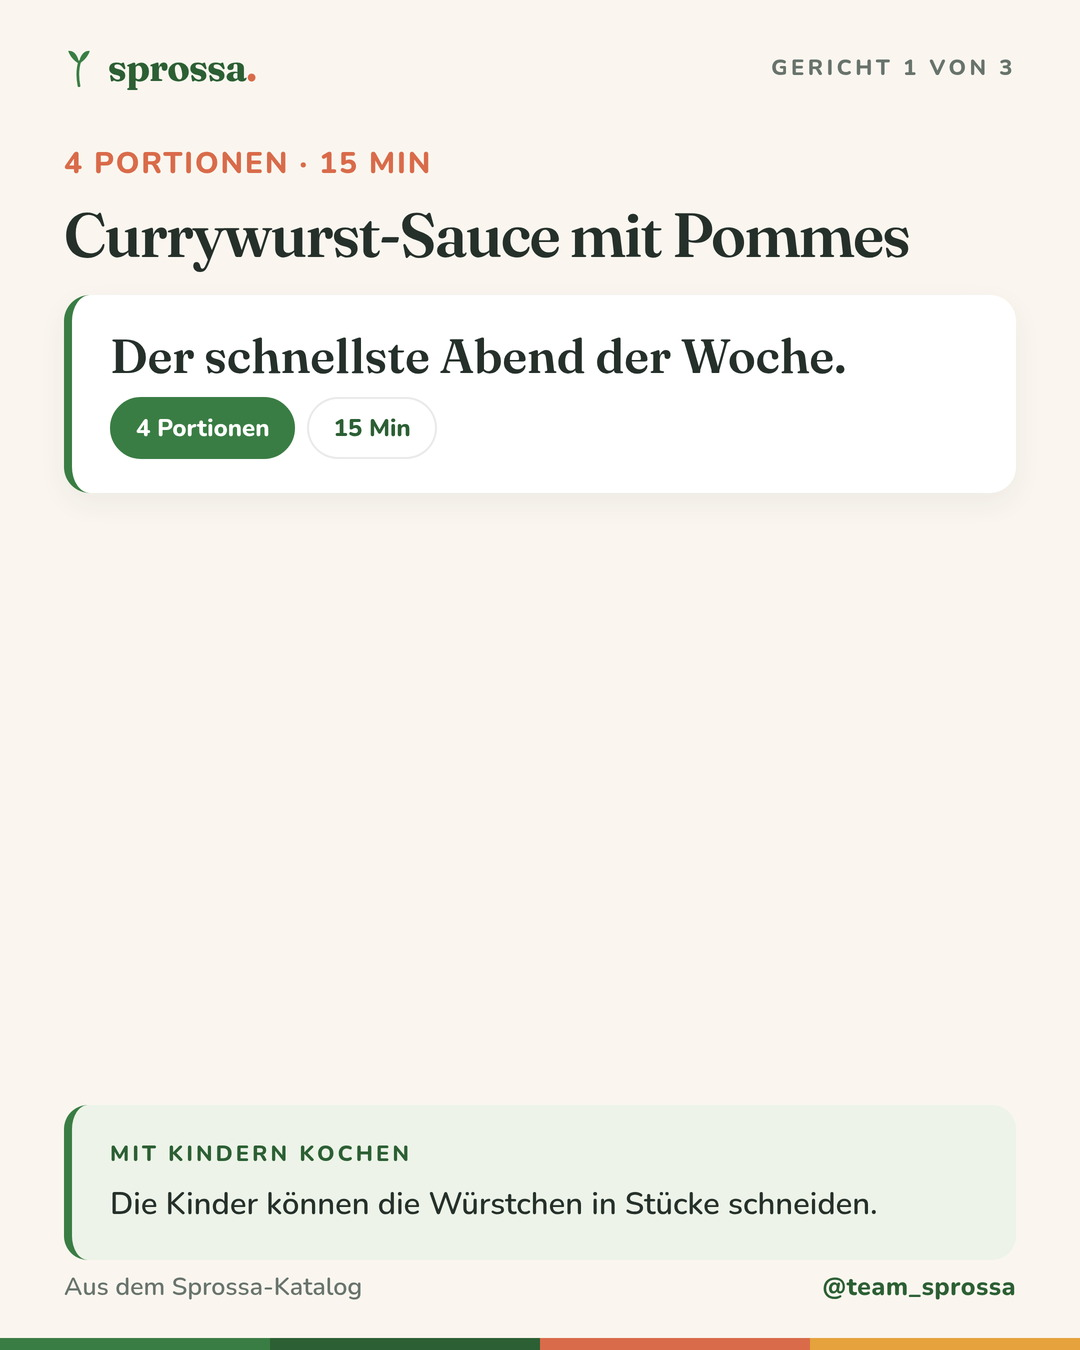
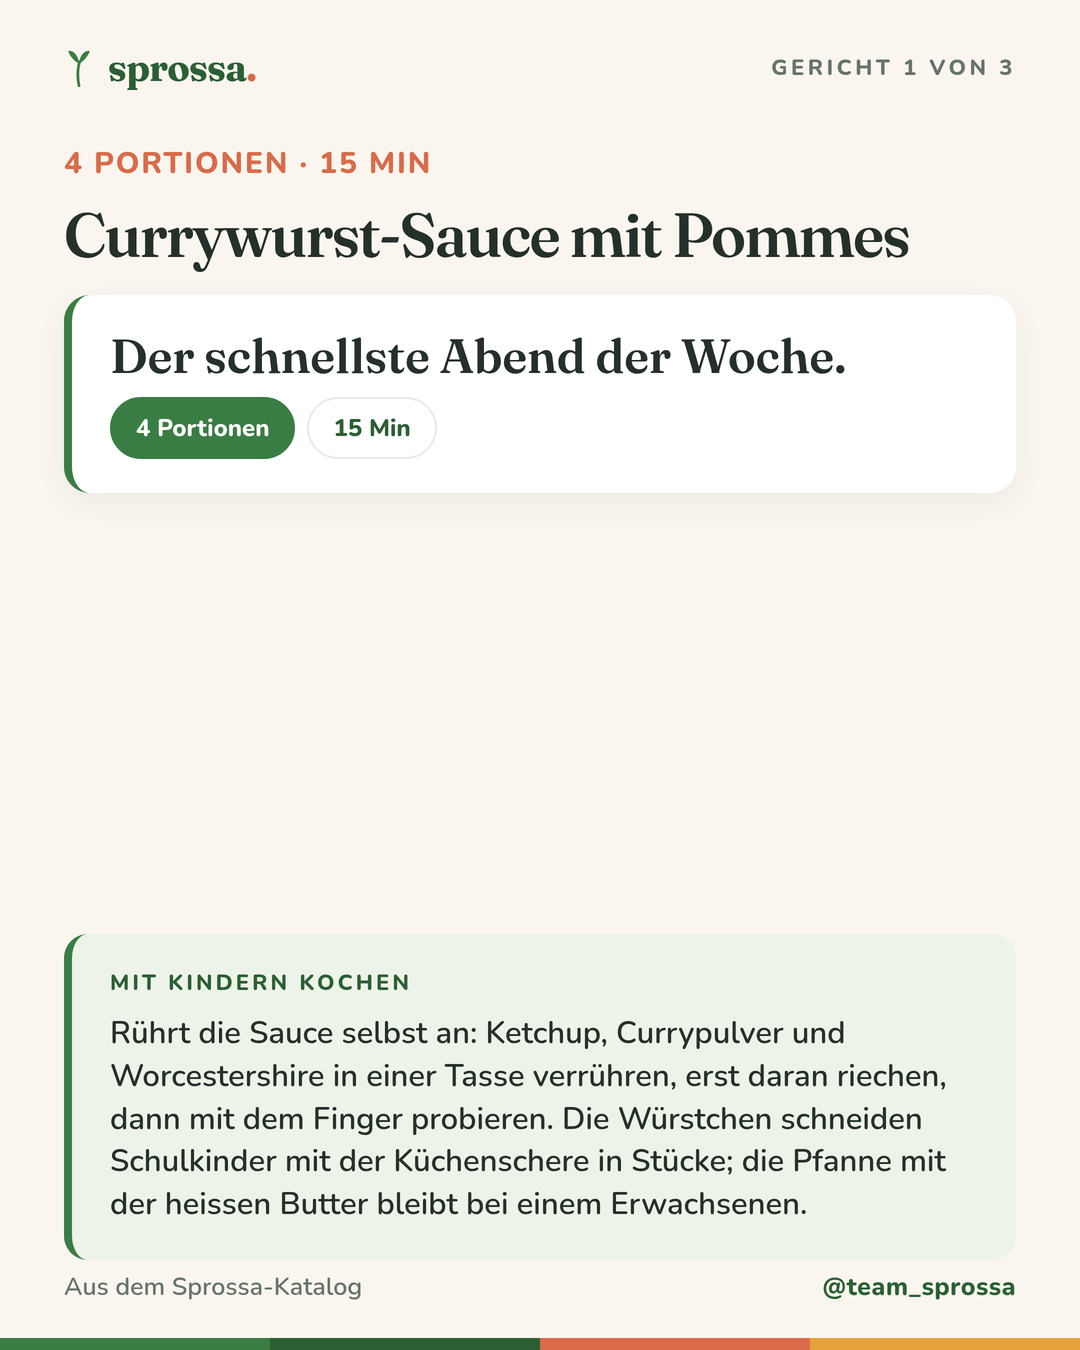
Kinder-Tipps auf Rezeptbezug umstellen
Von 320 Rezepten folgten 283 dem Schema 'Die Kinder koennen X'. Der Satz
war austauschbar: Er passte auf jedes Gericht und verlangte meist nichts.
15 Tipps verlangten nur Sortieren oder Holen, 8 waren zu kurz, 6 leer -
nur 12 waren wirklich konkret.

Neu: ein Qualitaetsmassstab (docs/kinder-tipps-qualitaet.md) mit fuenf
Kriterien und Referenzbeispielen, dazu Audit-, Export- und Anwendeskript.
Alle 320 Tipps wurden neu geschrieben: gerichtsgebunden, mit sinnlichem
Anker, altersdifferenziert und mit Sicherheitshalbsatz, wo Herd oder
Messer im Spiel sind. Ergebnis in der Test-DB: 0 Schema-Anfaenge,
0 leere Tipps, Durchschnitt 242 statt ~90 Zeichen.

Die betroffenen Instagram-Slides (Rezept-Carousel und Kinder-Carousel)
wurden mit den neuen Texten neu gerendert.

Changed region(s): [[0.0611, 0.6844, 0.8861, 0.9022]]

diff --git a/scripts/apply_kid_tips.py b/scripts/apply_kid_tips.py
@@ -1,0 +1,124 @@
+"""Wendet überarbeitete Kinder-Tipps auf die DB an.
+
+Liest tmp/tip_batches/out_*.json, prüft jeden Eintrag gegen die Qualitätsregeln
+und schreibt per UPDATE (nie DELETE). Ohne --apply nur Bericht.
+"""
+import argparse
+import json
+import re
+import subprocess
+from pathlib import Path
+
+BATCH_DIR = Path("/home/mrjaws/monatsmenue/tmp/tip_batches")
+
+MIN_LEN, MAX_LEN = 60, 420
+TRIVIAL = re.compile(
+    r"\b(holen|hol |sortieren|abzählen|zuschauen|dabeisein|wegräumen)\b",
+    re.IGNORECASE,
+)
+# Teilstring-Suche ohne Wortgrenzen: Komposita wie "auseinanderzupfen" oder
+# "unterheben" sollen treffen, auch wenn ein Praefix davorsitzt.
+SENSORY = re.compile(
+    r"(riechen|schmecken|kosten|probier|fühlen|anfassen|zerdrück|zerrupf|zerbrösel|zerstoss|"
+    r"formen|kneten|bestreich|pell|zupf|drück|einreib|abzieh|ausstech|auseinander|unterheb|"
+    r"brösel|streu|schicht|füll|wickel|roll|reib|schneid|brech|rühr|wasch|putz|beleg|misch|"
+    r"abtupf|aushöhl|auspress|löffel|wende|zieh|hobel|raspel)",
+    re.IGNORECASE,
+)
+# "abnehmen" bewusst NICHT drin: im Kochkontext heisst es "Portion abnehmen".
+BANNED = re.compile(r"\b(gesund|gesünder|vitaminreich|Küchenheld|Abenteuer)\b", re.IGNORECASE)
+
+
+def load() -> list[dict]:
+    """Liest die Batch-Ergebnisse. Ein Batch kann als Array oder als Objekt
+    mit id/new_tip vorliegen."""
+    items = []
+    for f in sorted(BATCH_DIR.glob("out_*.json")):
+        data = json.loads(f.read_text(encoding="utf-8"))
+        if isinstance(data, dict):
+            data = data.get("items") or data.get("eintraege") or []
+            if data and isinstance(data[0], dict) and "new_tip" not in data[0]:
+                data = []
+        if not isinstance(data, list):
+            raise SystemExit(f"{f.name}: unerwartetes Format")
+        items.extend([d for d in data if isinstance(d, dict) and "new_tip" in d])
+    return items
+
+
+def check(item: dict) -> list[str]:
+    problems = []
+    tip = (item.get("new_tip") or "").strip()
+    if not item.get("id"):
+        problems.append("keine id")
+    if not tip:
+        problems.append("leerer Text")
+        return problems
+    if len(tip) < MIN_LEN:
+        problems.append(f"zu kurz ({len(tip)})")
+    if len(tip) > MAX_LEN:
+        problems.append(f"zu lang ({len(tip)})")
+    if TRIVIAL.search(tip):
+        problems.append("triviale Aufgabe")
+    if not SENSORY.search(tip):
+        problems.append("kein sinnlicher Anker")
+    if BANNED.search(tip):
+        problems.append("verbotene Formulierung")
+    return problems
+
+
+def main() -> int:
+    ap = argparse.ArgumentParser()
+    ap.add_argument("--apply", action="store_true")
+    args = ap.parse_args()
+
+    items = load()
+    print(f"Einträge geladen: {len(items)}")
+
+    ids = [i.get("id") for i in items]
+    dupes = {i for i in ids if ids.count(i) > 1}
+    if dupes:
+        print(f"WARNUNG: {len(dupes)} doppelte IDs")
+
+    bad = {}
+    ok = 0
+    for it in items:
+        p = check(it)
+        if p:
+            bad.setdefault(tuple(p), []).append(it.get("id", "?"))
+        else:
+            ok += 1
+
+    print(f"sauber: {ok} · auffällig: {len(items) - ok}")
+    for k, v in sorted(bad.items(), key=lambda x: -len(x[1])):
+        print(f"  {', '.join(k)}: {len(v)}")
+
+    schema = sum(1 for i in items if (i.get("new_tip") or "").lower().startswith("die kinder können"))
+    anteil = schema * 100 // max(1, len(items))
+    print(f"Schema-Anfang 'Die Kinder koennen': {schema} ({anteil} %)")
+
+    if not args.apply:
+        print("\nDry-Run — nichts geschrieben. Mit --apply anwenden.")
+        return 0
+
+    # UPDATE per psql, eine Transaktion
+    lines = ["BEGIN;"]
+    for it in items:
+        tip = (it["new_tip"] or "").strip().replace("'", "''")
+        lines.append(f"UPDATE recipes SET kid_friendly_tip = '{tip}' WHERE id = '{it['id']}';")
+    lines.append("COMMIT;")
+    sql = "\n".join(lines)
+
+    r = subprocess.run(
+        ["docker", "exec", "-i", "sprossa-test-db", "psql", "-U", "sprossa", "-d", "sprossa_test", "-v", "ON_ERROR_STOP=1"],
+        input=sql, capture_output=True, text=True,
+    )
+    print(r.stdout[-800:])
+    if r.returncode != 0:
+        print("FEHLER:", r.stderr[-1200:])
+        return 1
+    print("angewandt.")
+    return 0
+
+
+if __name__ == "__main__":
+    raise SystemExit(main())

diff --git a/scripts/audit_kid_tips.py b/scripts/audit_kid_tips.py
@@ -1,0 +1,71 @@
+"""Exportiert alle Kinder-Tipps und bewertet sie nach Qualitätsmustern."""
+import json
+import re
+import subprocess
+
+SQL = """
+SELECT id, title, coalesce(kid_friendly_tip,''), tags::text
+FROM recipes ORDER BY title;
+"""
+
+out = subprocess.run(
+    ["docker", "exec", "sprossa-test-db", "psql", "-U", "sprossa", "-d", "sprossa_test",
+     "-t", "-A", "-F", "\x1f", "-c", SQL],
+    capture_output=True, text=True, check=True,
+).stdout
+
+# Triviale Aufgaben: nichts, was wirklich hilft
+TRIVIAL = re.compile(
+    r"\b(holen|hol|sortieren|zählen|zählen lassen|abzählen|in den kühlschrank|"
+    r"aus dem kühlschrank|anschauen|angucken|beobachten|zuschauen|dabeisein|"
+    r"aussuchen|auswählen|runternehmen|wegräumen|abwaschen)\b",
+    re.IGNORECASE,
+)
+# Sensorische Anker: riechen, schmecken, fühlen, kneten
+SENSORY = re.compile(r"\b(riechen|schmecken|kosten|fühlen|kneten|matschen|zerdrücken|zerrupfen)\b", re.IGNORECASE)
+# Sicherheitshinweis
+SAFETY = re.compile(r"\b(aufsicht|vorsichtig|stumpf|kalt|abkühlen|nicht anfassen|heiß)\b", re.IGNORECASE)
+
+
+def classify(tip: str) -> str:
+    t = tip.strip()
+    if not t:
+        return "leer"
+    low = t.lower()
+    if len(t) < 45:
+        return "zu_kurz"
+    if TRIVIAL.search(low):
+        return "trivial"
+    if low.startswith("die kinder können") and not SENSORY.search(low):
+        return "schema_ohne_sensorik"
+    if SENSORY.search(low) or SAFETY.search(low):
+        return "konkret"
+    return "unbestimmt"
+
+
+rows = []
+for line in out.splitlines():
+    if not line.strip():
+        continue
+    parts = line.split("\x1f")
+    if len(parts) < 4:
+        continue
+    rid, title, tip, tags = parts[0], parts[1], parts[2], parts[3]
+    rows.append({"id": rid, "title": title, "tip": tip, "tags": tags, "klasse": classify(tip)})
+
+from collections import Counter
+c = Counter(r["klasse"] for r in rows)
+print("Gesamt:", len(rows))
+for k, v in c.most_common():
+    print(f"  {k:22s} {v}")
+
+with open("/home/mrjaws/monatsmenue/tmp/kinder_tipps.json", "w", encoding="utf-8") as f:
+    json.dump(rows, f, ensure_ascii=False, indent=1)
+
+print("\n--- Beispiele pro Klasse ---")
+seen = set()
+for r in rows:
+    if r["klasse"] in seen:
+        continue
+    seen.add(r["klasse"])
+    print(f"[{r['klasse']}] {r['title'][:44]}: {r['tip'][:110]}")

diff --git a/scripts/build_campaign_posts.py b/scripts/build_campaign_posts.py
@@ -114,9 +114,12 @@ def dezember() -> str:
 # ── Post 2: Drei Gerichte, die Kinder wirklich essen ───────────────────────
 
 DISHES = [
-    ("Currywurst-Sauce mit Pommes", "15 Min", "Der schnellste Abend der Woche.", "Die Kinder können die Würstchen in Stücke schneiden."),
-    ("Frikadellen mit Kartoffelstampf und Gurkensalat", "40 Min", "Der Klassiker, der nie übrig bleibt.", "Die Kinder können die Frikadellen-Masse mit den Händen zu Kugeln formen."),
-    ("Brokkoli-Käse-Gratin mit Knusperkruste", "35 Min", "Gemüse, das tatsächlich gegessen wird.", "Die Kinder können die Kruste aus Paniermehl und Parmesan mischen."),
+    ("Currywurst-Sauce mit Pommes", "15 Min", "Der schnellste Abend der Woche.",
+     "Rührt die Sauce selbst an: Ketchup, Currypulver und Worcestershire in einer Tasse verrühren, erst daran riechen, dann mit dem Finger probieren. Die Würstchen schneiden Schulkinder mit der Küchenschere in Stücke; die Pfanne mit der heissen Butter bleibt bei einem Erwachsenen."),
+    ("Frikadellen mit Kartoffelstampf und Gurkensalat", "40 Min", "Der Klassiker, der nie übrig bleibt.",
+     "Die Hackmasse mit den Händen durchkneten, bis sie zusammenhält — kalt, klebrig und genau das, was Kinder ohnehin tun wollen; daraus acht flache Frikadellen formen und laut mitzählen. Die Pfanne mit dem heissen Rapsöl gehört einem Erwachsenen."),
+    ("Brokkoli-Käse-Gratin mit Knusperkruste", "35 Min", "Gemüse, das tatsächlich gegessen wird.",
+     "Paniermehl und Parmesan mit den Fingern mischen und über den Brokkoli streuen — die Krümel sollen ungleich liegen, das gibt die knusprigen Ecken. Die Käsesauce am Herd rührt ein Erwachsener, sie spritzt beim Schmelzen."),
 ]
 
 

diff --git a/scripts/export_tip_batches.py b/scripts/export_tip_batches.py
@@ -1,0 +1,51 @@
+"""Exportiert Rezeptdaten in Batches für die Kinder-Tipp-Überarbeitung.
+
+Nutzt json_agg, weil psql -A bei mehrzeiligen Feldern (instructions) sonst
+Zeilenumbrüche in die Ausgabe schreibt und der Zeilenparser Rezepte verschluckt.
+"""
+import json
+import subprocess
+from pathlib import Path
+
+SQL = """
+SELECT coalesce(json_agg(row_to_json(t) ORDER BY t.title), '[]'::json)::text
+FROM (
+  SELECT r.id,
+         r.title,
+         r.servings,
+         left(coalesce(r.instructions,''), 700) AS instructions,
+         coalesce(r.kid_friendly_tip,'') AS old_tip,
+         coalesce(string_agg(i.name, ' | ' ORDER BY i.name), '') AS ingredients
+  FROM recipes r
+  LEFT JOIN recipe_ingredients ri ON ri.recipe_id = r.id
+  LEFT JOIN ingredients i ON i.id = ri.ingredient_id
+  GROUP BY r.id, r.title, r.servings, r.instructions, r.kid_friendly_tip
+) t;
+"""
+
+raw = subprocess.run(
+    ["docker", "exec", "sprossa-test-db", "psql", "-U", "sprossa", "-d", "sprossa_test",
+     "-t", "-A", "-c", SQL],
+    capture_output=True, text=True, check=True,
+).stdout.strip()
+
+rows = json.loads(raw)
+for r in rows:
+    r["instructions"] = " ".join((r.get("instructions") or "").split())
+
+outdir = Path("/home/mrjaws/monatsmenue/tmp/tip_batches")
+outdir.mkdir(parents=True, exist_ok=True)
+for old in outdir.glob("batch_*.json"):
+    old.unlink()
+
+N = 5
+size = (len(rows) + N - 1) // N
+for i in range(N):
+    batch = rows[i * size:(i + 1) * size]
+    if not batch:
+        continue
+    path = outdir / f"batch_{i+1}.json"
+    path.write_text(json.dumps(batch, ensure_ascii=False, indent=1), encoding="utf-8")
+    print(f"{path.name}: {len(batch)} Rezepte, {path.stat().st_size // 1024} KB")
+
+print("gesamt:", len(rows))

diff --git a/docs/kinder-tipps-qualitaet.md b/docs/kinder-tipps-qualitaet.md
@@ -1,0 +1,68 @@
+# Kinder-Tipps — Qualitätsmaßstab
+
+## Das Problem im Ist-Stand
+
+Von 320 Rezepten folgen 283 dem Schema „Die Kinder können …". Der Satz ist
+austauschbar: Man kann ihn von Kartoffelsalat auf Gulasch umschreiben, ohne dass
+sich etwas ändert. 15 Tipps verlangen nichts („Gemüse nach Farben sortieren"),
+8 sind zu kurz, um zu helfen, 6 sind leer.
+
+Ein guter Tipp beantwortet eine andere Frage: **Welche Aufgabe im konkreten
+Gericht kann ein Kind wirklich übernehmen — und was passiert dabei mit ihm?**
+
+## Fünf Kriterien
+
+1. **Gerichtsgebunden.** Der Tipp nennt eine Zutat oder einen Schritt aus genau
+   diesem Rezept. Wer ihn in ein anderes Rezept kopieren könnte, ohne dass es
+   auffällt, hat keinen Tipp geschrieben.
+2. **Echte Entlastung.** Die Aufgabe spart tatsächlich Zeit oder Arbeit — sie ist
+   kein Beschäftigungstheater. „Zuschauen" und „holen" zählen nicht.
+3. **Sinnlicher Anker.** Mindestens eine der drei Ebenen kommt vor: riechen,
+   fühlen/hantieren, schmecken. Wer die Zutat angefasst hat, isst sie eher.
+4. **Altersdifferenzierung, wo es zählt.** Kleine Kinder (ca. 2–5) riechen,
+   zerdrücken, bestreichen, zählen. Schulkinder (ca. 6–10) schneiden mit stumpfem
+   Messer, rühren am Herd unter Aufsicht, formen, füllen. Ein Tipp darf beide
+   ansprechen, muss aber sagen, wer was macht.
+5. **Sicherheit benennen, nicht voraussetzen.** Herd, heißes Fett, scharfes Messer:
+   kurz sagen, wer dabei ist. Kein Absatz, ein Halbsatz reicht.
+
+## Form
+
+- **1–3 Sätze.** Kein Absatz, keine Aufzählung.
+- **Kein Schema-Anfang.** Nicht jede Zeile mit „Die Kinder können" beginnen —
+  variieren: Imperativ („Gebt den Kleinen …"), Beobachtung („Wer die Zwiebel
+  schneidet, weint —"), Frage („Wer riecht zuerst?").
+- **Kein Werbe-Ton.** Keine „Abenteuer", keine „kleinen Küchenhelden", keine
+  pädagogischen Versprechen.
+- **Keine Gesundheits- oder Ernährungsaussagen.** Kein „gesund", kein „vitaminreich".
+- **Konkret statt nett.** „Ein Plastikmesser reicht" ist besser als „mit etwas Hilfe".
+
+## Referenzbeispiele
+
+**schlecht:** Die Kinder können das Gemüse nach Farben sortieren – das macht das
+Anrichten zum Spiel.
+**gut:** Lauch in Ringe schneiden ist für die Kleinen zu schwer, aber sie können
+die Ringe mit den Fingern auseinanderdrücken und dabei zählen, wie viele es werden.
+
+**schlecht:** Die Kinder können die Kartoffeln in grobe Stücke schneiden – ein
+Plastikmesser tut es auch.
+**gut:** Die Kartoffeln dürfen ungleichmäßig werden — gebt den Kleinen ein stumpfes
+Messer, das Gröbste machen die Erwachsenen. Wer die kalten Würfel anfasst, meckert
+später weniger über den Kartoffelsalat.
+
+**schlecht:** Die Kinder können die Avocado mit einer Gabel zerdrücken.
+**gut:** Die Avocado mit der Gabel zerdrücken ist die dankbarste Aufgabe im Rezept:
+Je grober, desto besser, und man kann dabei testen, ob sie reif ist — wer sie
+zerdrückt, probiert auch.
+
+**schlecht:** Für die Kinder die scharfe Paste weglassen.
+**gut:** Nehmt die Paste für die Kinder vor dem Scharf-Werden heraus — oder stellt
+Sriracha separat auf den Tisch. Wichtig: die Portion vorher abnehmen, nachträglich
+lässt sich Schärfe nicht mehr rausnehmen.
+
+## Was NICHT geht
+
+- Aufgaben ohne Bezug zum Rezept (sortieren, holen, zuschauen, abwaschen).
+- Generisches „helfen lassen" ohne konkrete Handlung.
+- Sicherheitshinweise, die die Aufsicht verschweigen (heißes Öl, Backofen, Messer).
+- Sätze, die ein Kind zum Publikum machen statt zum Mitmacher.
